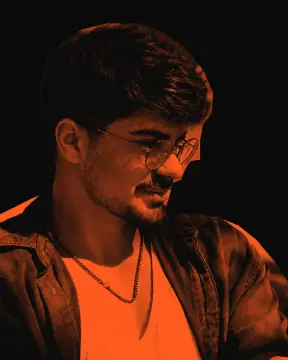
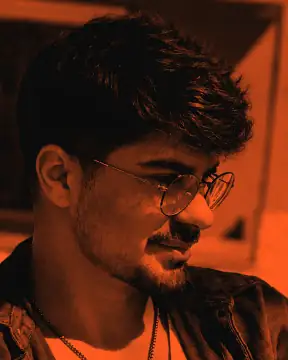
FIL-8: foto do hero em duotone com o fundo original

diff --git a/scripts/hero-photo.ts b/scripts/hero-photo.ts
@@ -1,6 +1,6 @@
 /**
- * Hero photo: a brutalist treatment of Filipe's real photo, image processing only (crop, hand-drawn
- * silhouette mask, tone curve, duotone or black and white, seeded grain); no generative or AI step.
+ * Hero photo: a brutalist treatment of Filipe's real photo, image processing only (face-first crop, tone
+ * curve, duotone or black and white over the whole frame, background included, seeded grain); no generative or AI step.
  * The source stays outside the repo (ASSETS.md), so pass it with --source=<file>. Writes a small processed
  * master to assets/originals/profile/ and the displayed sizes (AVIF + WebP, 1x and 2x) to public/images/profile/.
  * `--treatment=bw|duotone --out=<dir>` only writes a preview there (used for the option comparison).
@@ -11,28 +11,20 @@ import sharp from "sharp";
 import { HERO_PHOTO, heroPhotoPath } from "../lib/hero-photo";
 
 const MASTER = "assets/originals/profile/filipe-bravo-hero.webp";
-/** Head and shoulders in the 1024×1536 source. */
-const CROP = { left: 0, top: 80, width: 800, height: 1000 };
-/** Silhouette of head and shoulders in crop pixels, traced by hand; everything outside is background. */
-const SILHOUETTE = [
-  [0, 1000], [0, 600], [50, 575], [110, 545], [150, 525], [160, 470], [150, 420], [150, 360], [118, 320], [115, 250],
-  [130, 180], [170, 120], [230, 85], [300, 68], [380, 68], [450, 92], [510, 135], [560, 195], [588, 260], [585, 310],
-  [560, 345], [553, 385], [553, 440], [525, 445], [510, 470], [500, 495], [478, 505], [470, 530], [465, 550], [455, 580],
-  [460, 600], [520, 595], [600, 605], [660, 630], [710, 670], [760, 730], [800, 790], [800, 1000],
-] as const;
-const FEATHER = 2;
+/** Face-first crop of the 1024×1536 source (4:5, like the display size). */
+const CROP = { left: 82, top: 120, width: 576, height: 720 };
 const NEAR_BLACK = [10, 10, 10] as const;
 const WHITE = [245, 245, 245] as const;
 const ACCENT = [0xff, 0x5a, 0x1f] as const;
-const GRAIN = 12;
+const GRAIN = 8;
 
 type Treatment = "bw" | "duotone";
 type Rgb = readonly [number, number, number];
 
-/** Treatment = [shadow colour, highlight colour, background colour]. */
-const PALETTES: Record<Treatment, readonly [Rgb, Rgb, Rgb]> = {
-  bw: [NEAR_BLACK, WHITE, WHITE],
-  duotone: [NEAR_BLACK, ACCENT, NEAR_BLACK],
+/** Treatment = [shadow colour, highlight colour]. */
+const PALETTES: Record<Treatment, readonly [Rgb, Rgb]> = {
+  bw: [NEAR_BLACK, WHITE],
+  duotone: [NEAR_BLACK, ACCENT],
 };
 
 /** Steep S-curve: deep blacks, clipped highlights. */
@@ -52,25 +44,14 @@ function seededNoise(seed: number) {
   };
 }
 
-async function silhouetteMask(): Promise<Buffer> {
-  const points = SILHOUETTE.map(([x, y]) => `${x},${y}`).join(" ");
-  const svg = `<svg xmlns="http://www.w3.org/2000/svg" width="${CROP.width}" height="${CROP.height}"><polygon points="${points}" fill="#fff"/></svg>`;
-  return sharp(Buffer.from(svg)).blur(FEATHER).greyscale().raw().toBuffer();
-}
-
 async function treat(source: string, treatment: Treatment) {
-  const [shadow, highlight, background] = PALETTES[treatment];
+  const [shadow, highlight] = PALETTES[treatment];
   const grey = await sharp(source).extract(CROP).greyscale().normalise().raw().toBuffer();
-  const mask = await silhouetteMask();
   const out = Buffer.alloc(CROP.width * CROP.height * 3);
   const noise = seededNoise(2026);
   for (let i = 0; i < CROP.width * CROP.height; i++) {
     const t = Math.min(1, Math.max(0, toneCurve(grey[i]!) + (noise() * GRAIN) / 255));
-    const subject = mask[i]! / 255;
-    for (let c = 0; c < 3; c++) {
-      const tone = shadow[c]! + (highlight[c]! - shadow[c]!) * t;
-      out[i * 3 + c] = Math.round(tone * subject + background[c]! * (1 - subject));
-    }
+    for (let c = 0; c < 3; c++) out[i * 3 + c] = Math.round(shadow[c]! + (highlight[c]! - shadow[c]!) * t);
   }
   return sharp(out, { raw: { width: CROP.width, height: CROP.height, channels: 3 } }).resize(HERO_PHOTO.masterWidth);
 }
@@ -91,8 +72,8 @@ async function main(): Promise<void> {
   for (const width of HERO_PHOTO.srcsetWidths) {
     const height = Math.round((width * HERO_PHOTO.height) / HERO_PHOTO.width);
     const resized = sharp(MASTER).resize(width, height);
-    const avif = await resized.clone().avif({ quality: 55, effort: 9 }).toFile(path.join("public", heroPhotoPath(width, "avif")));
-    const webp = await resized.clone().webp({ quality: 72, effort: 6 }).toFile(path.join("public", heroPhotoPath(width, "webp")));
+    const avif = await resized.clone().avif({ quality: 50, effort: 9 }).toFile(path.join("public", heroPhotoPath(width, "avif")));
+    const webp = await resized.clone().webp({ quality: 62, effort: 6 }).toFile(path.join("public", heroPhotoPath(width, "webp")));
     console.log(`${width}×${height}: AVIF ${avif.size} bytes, WebP ${webp.size} bytes`);
   }
 }

diff --git a/tests/unit/output-guards.test.ts b/tests/unit/output-guards.test.ts
@@ -204,6 +204,12 @@ describe("Sonar v2 follow-up: master originals are kept but never shipped", () =
     expect(fs.statSync(path.join(root, "assets/originals/profile/filipe-bravo-hero.webp")).size).toBeLessThan(300 * 1024);
   });
 
+  it("serves the hero photo only as small AVIF/WebP files (1x and 2x, 20 KB or less each)", () => {
+    const served = fs.readdirSync(path.join(root, "public/images/profile")).filter((file) => file.startsWith("filipe-bravo-hero"));
+    expect(served.sort()).toEqual(["filipe-bravo-hero-288.avif", "filipe-bravo-hero-288.webp", "filipe-bravo-hero-576.avif", "filipe-bravo-hero-576.webp"]);
+    for (const file of served) expect(fs.statSync(path.join(root, "public/images/profile", file)).size).toBeLessThanOrEqual(20 * 1024);
+  });
+
   it("is outside public/ and referenced by no app, component, lib or script code (except the generator that writes it)", () => {
     const code = ["app", "components", "lib", "scripts"]
       .flatMap((dir) => fs.readdirSync(path.join(root, dir), { recursive: true, encoding: "utf8" }).map((f) => `${dir}/${f}`))

diff --git a/lib/hero-photo.ts b/lib/hero-photo.ts
@@ -4,7 +4,7 @@ export const HERO_PHOTO = {
   height: 360,
   srcsetWidths: [288, 576],
   /** Width of the processed master the script keeps (4:5, like the display size). */
-  masterWidth: 800,
+  masterWidth: 576,
   treatment: "duotone",
   alt: "Filipe Bravo",
 } as const;

diff --git a/ASSETS.md b/ASSETS.md
@@ -32,11 +32,11 @@ Shown in the Experience timeline in a 56 px tile, mapped by company name in `lib
 
 ## Hero photo
 
-Filipe's own photo, supplied by him on 2026-10-15 for the hero (FIL-8). Treated by `scripts/hero-photo.ts` with image processing only (crop, hand-traced silhouette mask, tone curve, duotone, seeded grain); no generative or AI step. Shown only from the lg breakpoint (`components/sections/HeroPhoto.tsx`); phones never download it.
+Filipe's own photo, supplied by him on 2026-10-15 for the hero (FIL-8). Treated by `scripts/hero-photo.ts` with image processing only (face-first crop, tone curve, duotone over the whole frame, seeded grain); no masking, no generative or AI step. Shown only from the lg breakpoint (`components/sections/HeroPhoto.tsx`); phones never download it.
 
 | File | Source | Retrieved | Permission | Notes |
 | --- | --- | --- | --- | --- |
-| `public/images/profile/filipe-bravo-hero-{288,576}.{avif,webp}` | `filipe-hero-original.png` supplied by Filipe (1024×1536 PNG, 2,431,535 bytes, SHA-256 `b9db36db…230715870`). **Not committed**: it stays outside the repo (`/workspace/portfolio-assets/photo/` on the agent box); rerun with `pnpm tsx scripts/hero-photo.ts --source=<file>` | 2026-10-15 | Filipe's own photo, supplied by him for this use | Cropped to head and shoulders (800×1000 from x 0, y 80), background outside the traced silhouette replaced with near-black, subject mapped to a near-black → #FF5A1F duotone with a steep tone curve and seeded grain. Displayed at 288×360; AVIF 5,749 / 19,106 bytes and WebP 6,922 / 19,714 bytes (1x / 2x). Processed master: `assets/originals/profile/filipe-bravo-hero.webp` (800×1000, 79,382 bytes) |
+| `public/images/profile/filipe-bravo-hero-{288,576}.{avif,webp}` | `filipe-hero-original.png` supplied by Filipe (1024×1536 PNG, 2,431,535 bytes, SHA-256 `b9db36db…230715870`). **Not committed**: it stays outside the repo (`/workspace/portfolio-assets/photo/` on the agent box); rerun with `pnpm tsx scripts/hero-photo.ts --source=<file>` | 2026-10-15 | Filipe's own photo, supplied by him for this use | Cropped around the face (576×720 from x 82, y 120 of the source, 4:5), the whole frame, original background included, mapped to a near-black → #FF5A1F duotone with a steep tone curve and seeded grain. Displayed at 288×360; AVIF 6,313 / 19,753 bytes and WebP 7,386 / 18,942 bytes (1x / 2x). Processed master: `assets/originals/profile/filipe-bravo-hero.webp` (576×720, 46,260 bytes); it replaced the earlier 800×1000 cut-out master |
 
 ## Case-study screenshots
 
